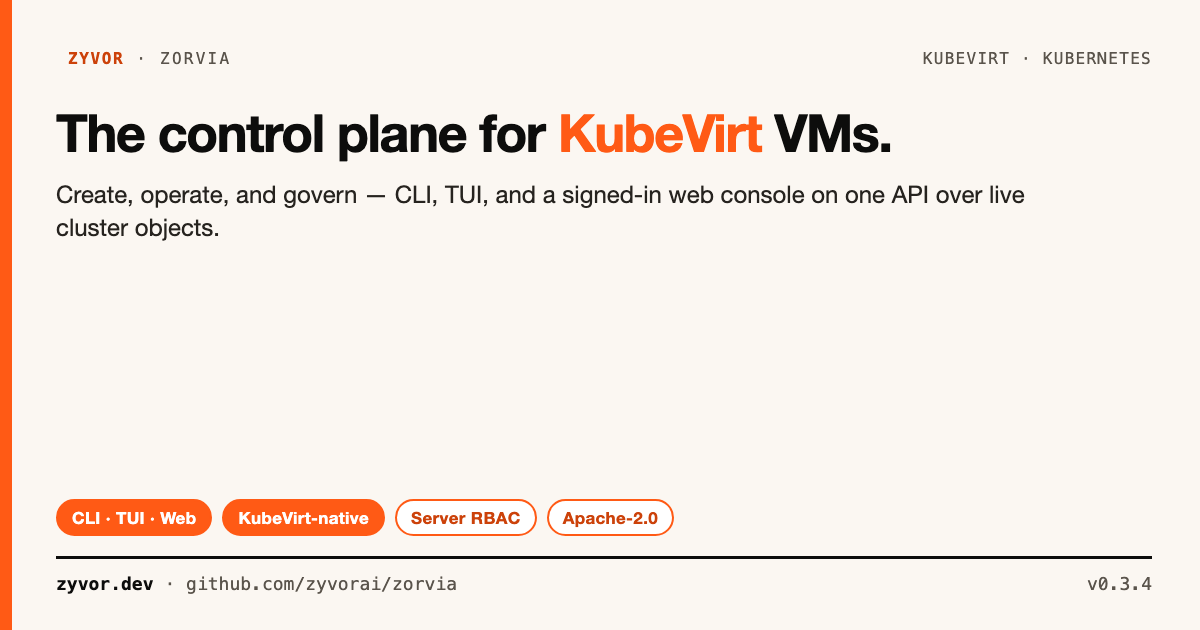
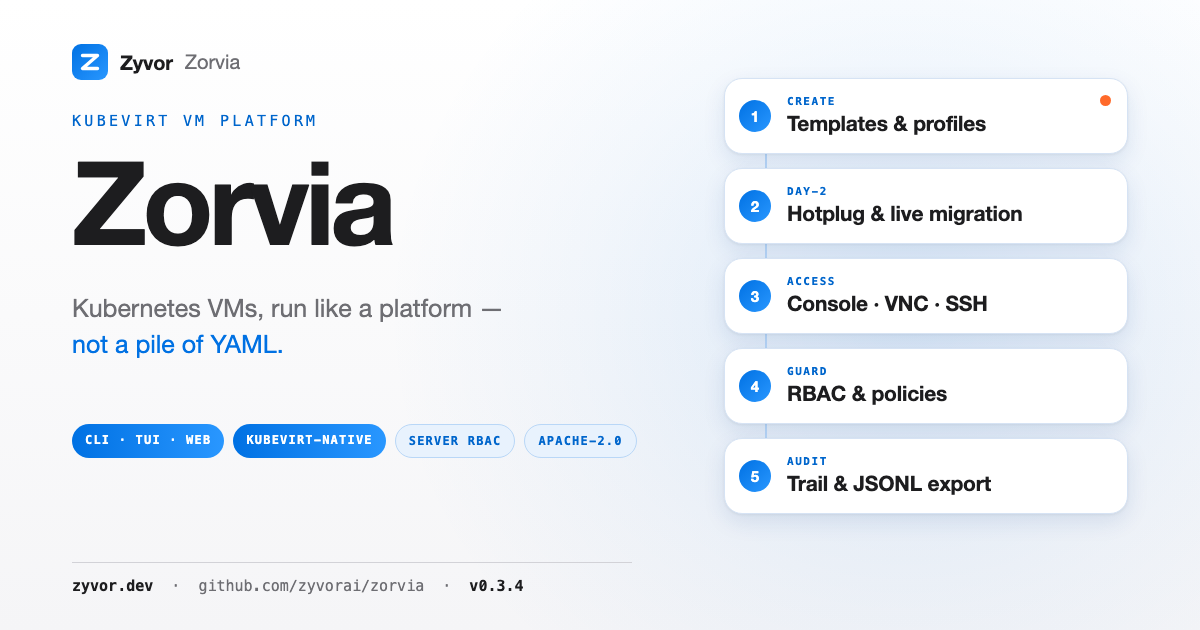
docs(social): apple-style blue/white cards, dark variant, build script
Restyle the share and LinkedIn/X cards in the blue/white palette with an inline
blue Zyvor mark (the referenced mark file does not exist in this repo), add a
dark share card for the README <picture>, and extend build-social-cards.sh to
render it. Orange appears once per image. Copy checked against README,
FEATURE_MATURITY.md and Cargo.toml (v0.3.4, 43 templates, OIDC Beta).

diff --git a/docs/social/zorvia-social-card.html b/docs/social/zorvia-social-card.html
@@ -5,79 +5,59 @@
 <title>Zorvia social card</title>
 <!--
   1600x900 (16:9) card for LinkedIn and X.
+  Palette: white / #f5f5f7, ink #1d1d1f, blue #0071e3 -> #2997ff, hairline #d2d2d7.
+  Orange appears once, as the dot on the Create step.
   Build:  ./docs/social/build-social-cards.sh
 -->
 <style>
   :root {
-    --ink:#0d0d0c; --soft:#5a544c; --signal:#ff5a15; --deep:#cc420a;
-    --line:#e7ded2; --warm:#fbf7f2;
-    --blue:#2b5fd9; --green:#1f7a4d;
+    --bg:#ffffff; --wash:#f5f5f7; --ink:#1d1d1f; --soft:#6e6e73; --hair:#d2d2d7;
+    --blue:#0071e3; --blue2:#2997ff; --deep:#0066cc;
+    --pill-bg:#e8f2fd; --pill-line:#b9d7f7;
+    --card:#ffffff; --card-line:#d6e3f4; --card-shadow:0 10px 26px rgba(0,60,140,.10), 0 1px 3px rgba(0,0,0,.06);
     --sans:'Helvetica Neue',Helvetica,Arial,sans-serif;
     --mono:'SF Mono',Menlo,Consolas,monospace;
   }
-  * { box-sizing:border-box; }
-  html,body { margin:0; padding:0; }
-  body {
-    width:1600px; height:900px; overflow:hidden;
-    background:var(--warm); color:var(--ink); font-family:var(--sans); position:relative;
+  * { box-sizing:border-box; margin:0; }
+  html,body { width:1600px; height:900px; overflow:hidden; background:var(--bg); }
+  .card {
+    position:relative; width:1600px; height:900px; color:var(--ink); font-family:var(--sans);
+    background:
+      radial-gradient(760px 520px at 1330px 130px, rgba(0,113,227,.12), rgba(0,113,227,.03) 60%, rgba(0,113,227,0) 100%),
+      linear-gradient(180deg, var(--bg) 0%, var(--wash) 100%);
   }
-  .bar { position:absolute; left:0; top:0; bottom:0; width:14px; background:var(--signal); }
-  .wrap {
-    position:absolute; left:72px; right:64px; top:48px; bottom:40px;
-    display:flex; flex-direction:column;
-  }
-  .top {
-    display:flex; align-items:center; gap:14px;
-    font-family:var(--mono); font-size:20px; letter-spacing:.14em; text-transform:uppercase; color:var(--soft);
-  }
-  .top img { height:40px; }
-  .top b { color:var(--deep); letter-spacing:.1em; }
-  .top .r { margin-left:auto; letter-spacing:.08em; }
-  h1 {
-    margin:26px 0 0; font-size:58px; line-height:1.08; letter-spacing:-.025em; font-weight:700; max-width:1440px;
-  }
-  h1 em { font-style:normal; color:var(--signal); }
-  .sub {
-    margin:16px 0 0; font-size:26px; line-height:1.36; color:#26231f; max-width:1320px;
-  }
-  .flow {
-    margin-top:34px; display:grid; grid-template-columns:repeat(5,1fr); gap:28px;
-  }
+  .wrap { position:absolute; left:80px; right:80px; top:52px; bottom:44px; display:flex; flex-direction:column; }
+  .top { display:flex; align-items:center; gap:14px; }
+  .mark { width:44px; height:44px; }
+  .top b { font-size:24px; font-weight:700; letter-spacing:-.01em; }
+  .top span { font-size:24px; color:var(--soft); }
+  .top .r { margin-left:auto; font-family:var(--mono); font-size:18px; letter-spacing:.16em; text-transform:uppercase; color:var(--deep); }
+  h1 { margin-top:44px; font-size:84px; line-height:1.04; font-weight:700; letter-spacing:-.035em; max-width:1400px; }
+  h1 em { font-style:normal; background:linear-gradient(90deg,var(--blue),var(--blue2)); -webkit-background-clip:text; background-clip:text; color:transparent; }
+  .sub { margin-top:20px; font-size:28px; line-height:1.4; color:var(--soft); max-width:1440px; }
+  .flow { margin-top:44px; display:grid; grid-template-columns:repeat(5,1fr); gap:30px; }
   .step {
-    position:relative; background:#fff; border:2.5px solid var(--c); border-radius:16px;
-    padding:18px 18px 18px 22px; min-height:248px;
-  }
-  .step::before {
-    content:""; position:absolute; left:0; top:0; bottom:0; width:9px;
-    background:var(--c); border-radius:13px 0 0 13px;
+    position:relative; background:var(--card); border:1px solid var(--card-line); border-radius:22px;
+    padding:22px 22px 24px; min-height:236px; box-shadow:var(--card-shadow);
   }
   .step:not(:last-child)::after {
-    content:""; position:absolute; right:-26px; top:50%; width:0; height:0; margin-top:-11px;
-    border-left:14px solid var(--soft); border-top:11px solid transparent; border-bottom:11px solid transparent;
+    content:""; position:absolute; right:-23px; top:50%; margin-top:-9px; width:0; height:0;
+    border-left:12px solid var(--blue2); border-top:9px solid transparent; border-bottom:9px solid transparent; opacity:.65;
   }
-  .lane {
-    display:inline-block; font-family:var(--mono); font-size:14px; font-weight:700;
-    letter-spacing:.12em; color:#fff; background:var(--c); padding:3px 10px; border-radius:11px;
-  }
+  .lane { font-family:var(--mono); font-size:14px; font-weight:700; letter-spacing:.14em; color:var(--deep); }
   .n {
-    float:right; width:32px; height:32px; border-radius:50%; background:var(--c); color:#fff;
-    font-weight:700; font-size:17px; line-height:32px; text-align:center;
+    float:right; width:34px; height:34px; border-radius:50%; color:#fff; font-weight:700; font-size:17px; line-height:34px;
+    text-align:center; background:linear-gradient(135deg,var(--blue),var(--blue2));
   }
-  .step h3 { margin:14px 0 8px; font-size:24px; line-height:1.14; letter-spacing:-.01em; }
-  .step p { margin:0; font-size:18px; line-height:1.34; color:var(--soft); }
-  .k { --c:var(--signal); }
-  .a { --c:var(--ink); }
-  .c { --c:var(--blue); }
-  .o { --c:var(--green); }
-  .o2 { --c:var(--deep); }
-  .chips { margin-top:auto; padding-top:22px; display:flex; flex-wrap:wrap; gap:10px; }
-  .chip {
-    font-size:18px; font-weight:700; padding:5px 14px; border-radius:20px;
-    background:var(--signal); color:#fff; letter-spacing:.02em; border:2px solid var(--signal);
-  }
-  .chip.g { background:#fff; color:var(--deep); border:2px solid var(--signal); }
+  .step h3 { margin:16px 0 10px; font-size:26px; line-height:1.14; letter-spacing:-.015em; text-wrap:balance; }
+  .step p { font-size:19px; line-height:1.4; color:var(--soft); }
+  .dot { position:absolute; left:22px; top:-5px; width:11px; height:11px; border-radius:50%; background:#ff6a2a; }
+  .chips { margin-top:auto; padding-top:26px; display:flex; flex-wrap:wrap; gap:12px; }
+  .chip { font-size:19px; font-weight:700; padding:8px 18px; border-radius:999px; letter-spacing:.01em; }
+  .chip.solid { color:#fff; background:linear-gradient(90deg,var(--blue),var(--blue2)); }
+  .chip.soft { color:var(--deep); background:var(--pill-bg); border:1px solid var(--pill-line); }
   .foot {
-    margin-top:18px; padding-top:14px; border-top:3px solid var(--ink);
+    margin-top:22px; padding-top:16px; border-top:1px solid var(--hair);
     display:flex; align-items:center; font-family:var(--mono); font-size:20px; color:var(--soft);
   }
   .foot b { color:var(--ink); }
@@ -85,47 +65,53 @@
 </style>
 </head>
 <body>
-<div class="bar"></div>
+<div class="card">
 <div class="wrap">
   <div class="top">
-    <img src="../../website/static/img/zyvor-mark.svg" alt="">
-    <b>Zyvor</b><span>&middot;</span><span>Zorvia</span>
+    <svg class="mark" viewBox="0 0 36 36" aria-hidden="true">
+      <defs><linearGradient id="g" x1="0" y1="0" x2="36" y2="36" gradientUnits="userSpaceOnUse">
+        <stop offset="0" stop-color="#0071e3"/><stop offset="1" stop-color="#2997ff"/></linearGradient></defs>
+      <rect width="36" height="36" rx="9" fill="url(#g)"/>
+      <path d="M10.5 11.5h15l-15 13h15" fill="none" stroke="#fff" stroke-width="3.4" stroke-linecap="round" stroke-linejoin="round"/>
+    </svg>
+    <b>Zyvor</b><span>Zorvia</span>
     <span class="r">KubeVirt VM platform</span>
   </div>
 
   <h1>Create. Operate. Govern. One control plane for <em>KubeVirt</em>.</h1>
-  <p class="sub">Templates to audit trail — CLI, TUI, and a signed-in console driving the same API over live cluster objects.</p>
+  <p class="sub">Templates to audit trail &mdash; CLI, TUI, and a signed-in console driving the same API over live cluster objects.</p>
 
   <div class="flow">
-    <div class="step k"><span class="lane">CREATE</span><span class="n">1</span>
+    <div class="step"><span class="dot"></span><span class="lane">CREATE</span><span class="n">1</span>
       <h3>Templates &amp; profiles</h3>
       <p>43 OS templates and workload profiles size and ship VMs in one shot.</p></div>
-    <div class="step a"><span class="lane">DAY-2</span><span class="n">2</span>
+    <div class="step"><span class="lane">DAY-2</span><span class="n">2</span>
       <h3>Hotplug &amp; migrate</h3>
-      <p>CPU/memory/disk/NIC hotplug, live migration, snapshots, and disk resize — for real.</p></div>
-    <div class="step c"><span class="lane">ACCESS</span><span class="n">3</span>
-      <h3>Console · VNC · SSH</h3>
+      <p>CPU/memory/disk/NIC hotplug, live migration, snapshots, and disk resize &mdash; for real.</p></div>
+    <div class="step"><span class="lane">ACCESS</span><span class="n">3</span>
+      <h3>Console &middot; VNC &middot; SSH</h3>
       <p>Authenticated WebSockets into the guest from the signed-in console.</p></div>
-    <div class="step o"><span class="lane">GUARD</span><span class="n">4</span>
+    <div class="step"><span class="lane">GUARD</span><span class="n">4</span>
       <h3>RBAC &amp; policies</h3>
-      <p>Server-side roles, ResourceQuota, and NetworkPolicy — not client-only checks.</p></div>
-    <div class="step o2"><span class="lane">AUDIT</span><span class="n">5</span>
+      <p>Server-side roles, ResourceQuota, and NetworkPolicy &mdash; not client-only checks.</p></div>
+    <div class="step"><span class="lane">AUDIT</span><span class="n">5</span>
       <h3>Prove who did what</h3>
       <p>Persistent audit trail with JSONL export for SIEM shippers.</p></div>
   </div>
 
   <div class="chips">
-    <span class="chip">KubeVirt-native</span>
-    <span class="chip">Helm chart</span>
-    <span class="chip g">OIDC Beta</span>
-    <span class="chip g">Apache-2.0</span>
-    <span class="chip g">v0.3.4</span>
+    <span class="chip solid">KubeVirt-native</span>
+    <span class="chip solid">Helm chart</span>
+    <span class="chip soft">OIDC Beta</span>
+    <span class="chip soft">Apache-2.0</span>
+    <span class="chip soft">v0.3.4</span>
   </div>
 
   <div class="foot">
     <span><b>zyvor.dev</b> &middot; github.com/zyvorai/zorvia</span>
     <span class="r">Product README &middot; docs site</span>
   </div>
+</div>
 </div>
 </body>
 </html>

diff --git a/docs/social/zorvia-share-card-dark.html b/docs/social/zorvia-share-card-dark.html
@@ -2,20 +2,20 @@
 <html lang="en">
 <head>
 <meta charset="utf-8">
-<title>Zorvia share card</title>
+<title>Zorvia share card (dark)</title>
 <!--
-  1200x630 card: README hero and docs-site Open Graph (docs site themeConfig.image).
+  1200x630 card: README hero and docs-site Open Graph (dark twin for the README <picture>).
   Palette: white / #f5f5f7, ink #1d1d1f, blue #0071e3 -> #2997ff, hairline #d2d2d7.
   Orange appears once, as the dot on the Create step.
   Build:  ./docs/social/build-social-cards.sh
 -->
 <style>
   :root {
-    --bg:#ffffff; --wash:#f5f5f7; --ink:#1d1d1f; --soft:#6e6e73; --hair:#d2d2d7;
-    --blue:#0071e3; --blue2:#2997ff; --deep:#0066cc;
-    --pill-bg:#e8f2fd; --pill-line:#b9d7f7; --pill-ink:#0066cc;
-    --card:#ffffff; --card-line:#d6e3f4; --card-shadow:0 8px 22px rgba(0,60,140,.10), 0 1px 3px rgba(0,0,0,.06);
-    --glow:rgba(0,113,227,.12); --rail:#b9d7f7;
+    --bg:#000000; --wash:#0b0b0f; --ink:#f5f5f7; --soft:#a1a1a6; --hair:#2a2a2e;
+    --blue:#0a84ff; --blue2:#2997ff; --deep:#64b0ff;
+    --pill-bg:#0c1a2e; --pill-line:#17335a; --pill-ink:#64b0ff;
+    --card:#1d1d1f; --card-line:#2c2c30; --card-shadow:0 8px 24px rgba(0,0,0,.55), 0 1px 2px rgba(0,0,0,.4);
+    --glow:rgba(10,132,255,.20); --rail:#17335a;
     --solid-ink:#ffffff;
     --sans:'Helvetica Neue',Helvetica,Arial,sans-serif;
     --mono:'SF Mono',Menlo,Consolas,monospace;

diff --git a/docs/social/README.md b/docs/social/README.md
@@ -4,12 +4,31 @@ Rebuildable cards for README, docs Open Graph, and LinkedIn/X. Story matches the
 
 | File | Size | Use |
 |------|------|-----|
-| `zorvia-share-card.png` | 1200×630 | README hero, docs site `themeConfig.image`, Twitter/OG |
+| `zorvia-share-card.png` | 1200×630 | README hero (light), docs site `themeConfig.image`, Twitter/OG |
+| `zorvia-share-card-dark.png` | 1200×630 | README hero for dark themes (`<picture>` `prefers-color-scheme: dark`) |
 | `zorvia-social-card.jpg` | 1600×900 | LinkedIn / X posts |
-| `zorvia-share-card.html` · `zorvia-social-card.html` | sources | Edit HTML, then rebuild |
+| `zorvia-share-card.html` · `zorvia-share-card-dark.html` · `zorvia-social-card.html` | sources | Edit HTML, then rebuild |
+
+## Palette
+
+apple.com blue and white: white → `#f5f5f7` background with a faint blue wash, ink `#1d1d1f`, secondary `#6e6e73`,
+hairline `#d2d2d7`, blue `#0071e3` → `#2997ff`. Dark card: `#000` / `#0b0b0f`, text `#f5f5f7`, cards `#1d1d1f`,
+blue `#0a84ff` / `#2997ff`. Type is Helvetica Neue with Menlo for labels. Orange `#ff6a2a` appears exactly once per
+image, as the small dot on the Create step; the Zyvor mark is drawn inline in blue.
+
+## Rebuild
 
 ```bash
 ./docs/social/build-social-cards.sh
 ```
 
-Licence wording follows `LICENSE` (Apache-2.0). Version chip tracks `Cargo.toml` / CHANGELOG.
+Needs Google Chrome and macOS `sips` (override the browser with `CHROME=/path/to/chrome`). The script renders all
+three outputs above.
+
+## GitHub social preview
+
+The repository's **Social preview** image (Settings → Social preview) cannot be set through the API or `gh`;
+upload `zorvia-share-card.png` there by hand after it changes.
+
+Licence wording follows `LICENSE` (Apache-2.0). The version chip tracks `Cargo.toml` (currently 0.3.4) and the
+CHANGELOG.
